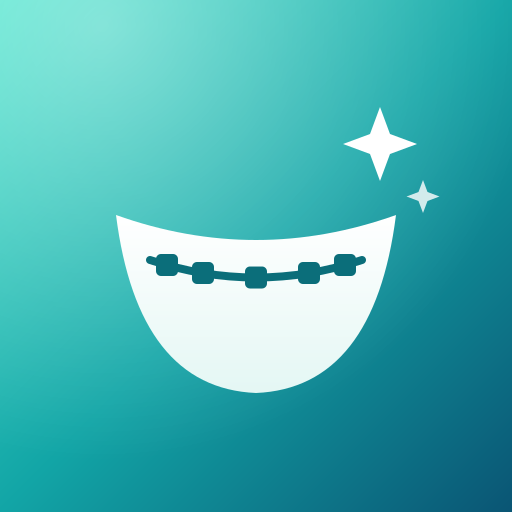
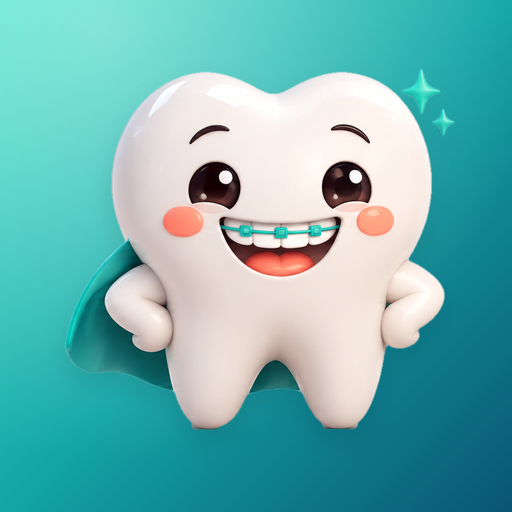
Mascotte : écran d'accueil, bulle de conseils contextuels, états vides et nouvelle icône
Claude-Session: https://claude.ai/code/session_014Qi6w99vzBnk3FX1KC666S

diff --git a/app.js b/app.js
@@ -169,7 +169,7 @@ const initial = p => (p?.name || '?').trim().charAt(0).toUpperCase();
 const opts = (list, sel) => list.map(([v, l]) => `<option value="${v}"${String(v) === String(sel) ? ' selected' : ''}>${esc(l)}</option>`).join('');
 const hm = ms => { const d = new Date(ms); return `${pad(d.getHours())}:${pad(d.getMinutes())}`; };
 const hmFr = ms => hm(ms).replace(':', ' h ');
-const dur = ms => { const m = Math.max(0, Math.round(ms / 6e4)), h = Math.floor(m / 60); return h ? `${h} h ${pad(m % 60)}` : `${m} min`; };
+const dur = ms => { const m = Math.max(0, Math.round(ms / 6e4)), h = Math.floor(m / 60); return h ? (m % 60 ? `${h} h ${pad(m % 60)}` : `${h} h`) : `${m} min`; };
 const hours1 = ms => (ms / HOUR).toFixed(1).replace('.', ',').replace(',0', '');
 const num = v => Number(String(v ?? '').replace(',', '.')) || 0;
 const telHref = s => 'tel:' + String(s || '').replace(/[^\d+]/g, '');
@@ -1156,6 +1156,44 @@ function familyCard() {
 const guideStrip = p => `<div class="sh"><h2>Fiches pratiques</h2><button data-tab="guide">Tout voir</button></div>
   <div class="gcards">${GUIDE.filter(g => relevant(g, p)).slice(0, 6).map(g => `<button class="gcard" data-art="${g.id}" style="background:linear-gradient(150deg,${g.c},color-mix(in srgb,${g.c} 70%,#000))"><span class="gi">${ic(g.ic, 18)}</span><b>${esc(g.t)}</b></button>`).join('')}</div>`;
 
+// ---------- La mascotte : un message utile selon la situation, sinon un conseil du jour ----------
+const TIPS = [
+  { t: 'Garde un petit kit sur toi : brosse à dents, cire et boîtier.', for: 'all' },
+  { t: 'Prends tes photos au même endroit, avec la même lumière : la comparaison sera bien plus parlante.', for: 'all' },
+  { t: 'Une question te vient ? Note-la tout de suite pour ne pas l’oublier au rendez-vous.', for: 'all', a: 'add-question', l: 'Ajouter une question' },
+  { t: 'Une gêne après un réglage est fréquente : aliments mous et cire aident souvent.', for: 'all', art: 'douleur' },
+  { t: 'Les rappels ajoutés au Calendrier sonnent même quand l’appli est fermée.', for: 'all', a: 'calendar', l: 'Créer mes rappels' },
+  { t: 'Brosse au-dessus et en dessous de chaque bracket, en inclinant la brosse.', for: ['bagues', 'lingual'], art: 'hyg-bagues' },
+  { t: 'Coupe les aliments durs en petits morceaux plutôt que de croquer dedans.', for: ['bagues', 'lingual'], art: 'manger' },
+  { t: 'Quand tu portes tes aligneurs, ne bois que de l’eau.', for: ['aligneurs'], art: 'aligneurs' },
+  { t: 'Évite l’eau chaude pour nettoyer tes gouttières : elle peut les déformer.', for: ['aligneurs', 'contention'], art: 'hyg-aligneurs' },
+  { t: 'Brosse-toi les dents avant de remettre tes aligneurs.', for: ['aligneurs'], art: 'hyg-aligneurs' },
+  { t: 'La contention, c’est ce qui garde ton beau résultat. Elle se porte souvent sur le long terme.', for: ['contention'], art: 'contention' },
+];
+function mascotSays(p) {
+  const o = openWear(), al = aligner(p), pr = progress(p), photos = myPhotos(), last = photos.at(-1);
+  if (o && Date.now() - o.out > 2 * HOUR) return { t: `Tes aligneurs sont hors de la bouche depuis ${dur(Date.now() - o.out)}. On les remet ?`, a: 'wear', l: 'Je les remets' };
+  if (al?.changedToday && last?.date !== iso()) return { b: `Nouvel aligneur n° ${al.n} !`, t: 'Une photo aujourd’hui pour garder la trace de chaque étape ?', a: 'camera', l: 'Prendre la photo' };
+  if (pr?.milestone && pr.milestone < 100) return { b: pr.milestone === 50 ? 'Mi-parcours franchi !' : `Cap des ${pr.milestone} % franchi !`, t: 'Regarde le chemin parcouru depuis ta première photo.', a: 'see-progress', l: 'Voir l’avant / après' };
+  const r = mine('rdv').filter(x => !x.done && x.date >= iso() && daysBetween(iso(), x.date) <= 1).sort((a, b) => (a.date + a.time).localeCompare(b.date + b.time))[0];
+  if (r) return { b: `Rendez-vous ${rel(r.date)}${r.time ? ` à ${r.time.replace(':', ' h ')}` : ''}.`, t: 'Tes questions sont prêtes ? Le mode présentation est dans l’onglet Cabinet.', a: 'go-suivi', l: 'Voir mes questions' };
+  const left = elasticsLeft(p);
+  if (left !== null && left < 7) return { t: `Plus que ${plural(left, 'jour')} d’élastiques. Pense à en redemander à ton cabinet.`, a: 'stock', l: 'Mettre à jour le stock' };
+  if (!photos.length) return { b: 'Salut, moi c’est ta mascotte !', t: 'Commence par une photo de départ : c’est elle qui montrera tout le chemin parcouru.', a: 'camera', l: 'Prendre ma première photo' };
+  const since = daysBetween(last.date, iso());
+  if (since >= 14) return { t: `Ça fait ${since} jours sans photo. On en refait une, au même endroit que la dernière ?`, a: 'camera', l: 'Prendre une photo' };
+  const items = routine(p), today = dayGet(iso(), p.id);
+  if (items.length && items.every(([k]) => today[k])) return { b: 'Routine du jour bouclée !', t: 'Tes dents te disent merci.' };
+  const tips = TIPS.filter(x => x.for === 'all' || x.for.includes(p.type));
+  const tip = tips[Math.floor(Date.now() / DAY) % tips.length];
+  return { b: 'Conseil du jour', t: tip.t, a: tip.a || (tip.art ? `art:${tip.art}` : null), l: tip.l || (tip.art ? 'Lire la fiche' : null) };
+}
+function mascotBubble(p) {
+  const m = mascotSays(p);
+  const btn = m.a ? (m.a.startsWith('art:') ? `<button data-art="${m.a.slice(4)}">${esc(m.l)}${ic('chevR', 14)}</button>` : `<button data-action="${m.a}">${esc(m.l)}${ic('chevR', 14)}</button>`) : '';
+  return `<div class="mbub"><img class="masc" src="mascot.webp" alt=""><div class="bub">${m.b ? `<b>${esc(m.b)}</b>` : ''}${esc(m.t)}${btn ? `<br>${btn}` : ''}</div></div>`;
+}
+
 // ---------- Écrans ----------
 function vWelcome() {
   const feats = [
@@ -1164,7 +1202,7 @@ function vWelcome() {
     ['alert', 'J’ai un problème', 'Les bons gestes en attendant, et ton cabinet à appeler ou à prévenir en un tap, même hors connexion.'],
     ['lock', 'Privé', 'Tout reste sur ton iPhone. Pas de compte, pas de serveur, plusieurs profils pour la famille.'],
   ];
-  return `<div class="welcome"><div class="w-top"><img class="w-icon" src="icon-512.png" alt=""><h1>Bienvenue dans<br><span>Sourire</span></h1></div>
+  return `<div class="welcome"><div class="w-top"><img class="masc w-masc" src="mascot.webp" alt="La mascotte de Sourire, une dent souriante avec des bagues"><h1>Bienvenue dans<br><span>Sourire</span></h1></div>
     <div class="w-list">${feats.map(([i, t, d]) => `<div class="w-f"><span class="w-ic">${ic(i, 30)}</span><div><b>${t}</b><p>${d}</p></div></div>`).join('')}</div>
     <div class="w-cta"><button class="btn" data-action="new-profile">Continuer</button><button class="lnk" data-action="import">Restaurer une sauvegarde</button></div></div>`;
 }
@@ -1197,6 +1235,7 @@ function vHome() {
   }
   const photoSub = since === null ? 'Ta photo de départ' : since === 0 ? 'Déjà faite aujourd’hui' : `Dernière il y a ${plural(since, 'jour')}`;
   return `<div class="lt"><div class="eyebrow">${esc(today)}</div><h1>Bonjour ${esc(p.name)}</h1></div>
+    ${mascotBubble(p)}
     <div class="stack">
       ${isAlign(p) ? wearCard() : ''}${hasNights(p) ? nightsCard(p) : ''}
       ${pctx ? painCard(pctx) : ''}
@@ -1218,7 +1257,7 @@ function vHome() {
 }
 function vGallery() {
   const all = myPhotos();
-  if (!all.length) return `<div class="empty"><div class="eic">${ic('camera', 40)}</div><h2>Aucune photo</h2>
+  if (!all.length) return `<div class="empty"><img class="masc" src="mascot-34.webp" alt=""><h2>Aucune photo</h2>
     <p>Prends une première photo de départ : de face, de côté ou des arcades. C’est elle qui rendra l’évolution visible.</p>
     <button class="btn" data-action="camera">${ic('camera', 20)}Appareil photo guidé</button><button class="btn soft" data-action="library">Choisir dans Photos</button></div>`;
   if (ui.filter !== 'all' && !all.some(p => p.view === ui.filter)) ui.filter = 'all';
@@ -1233,7 +1272,7 @@ function vGallery() {
 function vCompare() {
   const all = myPhotos();
   const byView = VIEWS.map(([v, l]) => [v, l, all.filter(p => p.view === v)]).filter(x => x[2].length >= 2);
-  if (!byView.length) return `<div class="empty"><div class="eic">${ic('compare', 40)}</div><h2>Deux photos minimum</h2>
+  if (!byView.length) return `<div class="empty"><img class="masc" src="mascot-34.webp" alt=""><h2>Deux photos minimum</h2>
     <p>Ajoute au moins deux photos de la même vue, à des dates différentes, pour voir l’avant / après.</p><button class="btn" data-action="camera">${ic('camera', 20)}Prendre une photo</button></div>`;
   if (!byView.some(x => x[0] === ui.cmpView)) { ui.cmpView = byView[0][0]; ui.cmpA = ui.cmpB = null; }
   const list = byView.find(x => x[0] === ui.cmpView)[2];
@@ -1583,6 +1622,7 @@ const ACTIONS = {
   'add-rdv': () => rdvSheet(), 'add-question': () => questionSheet(), 'add-pay': () => paySheet(),
   'wear': toggleWear, 'wear-list': wearListSheet, 'aligner': alignerSheet, 'stock': stockSheet, 'rb': rbSheet,
   'problem': problemSheet, 'calendar': calendarSheet,
+  'see-progress': () => { ui.pmode = 'compare'; ui.cmpA = ui.cmpB = null; go('photos'); }, 'go-suivi': () => go('suivi'),
   'message': () => { const p = me(), last = myPhotos().at(-1); const series = last ? myPhotos().filter(x => x.date === last.date) : []; composeMessage({ text: `${clinicSummary(p)}\n\n${mine('questions').filter(q => !q.done).map(q => `- ${q.text}`).join('\n')}\n`, photos: series.slice(0, 6), subject: `Suivi de ${p.name}` }); },
   'pdf': () => makeReport().catch(e => { console.error(e); hud('Impossible de créer le PDF', 'info'); }),
   'share-all': () => sharePhotos(myPhotos()), 'export': exportSheet, 'import': importBackup,

diff --git a/styles.css b/styles.css
@@ -514,3 +514,15 @@ textarea.note::placeholder{color:var(--label3)}
 .field input[type=time]{min-width:84px}
 .field input.tog{flex:none;width:51px;height:31px;min-width:51px}
 .field input[type=time]{min-width:96px}
+
+/* ---------- Mascotte ---------- */
+.masc{display:block;-webkit-user-drag:none;filter:drop-shadow(0 10px 14px rgba(0,0,0,.14))}
+.w-masc{width:min(46vw,190px);margin:0 auto;animation:pop .7s cubic-bezier(.2,1.25,.4,1) both,bob 3.4s 1s ease-in-out infinite}
+@keyframes bob{50%{transform:translateY(-7px)}}
+.mbub{display:flex;align-items:flex-end;gap:8px;margin:0 0 14px}
+.mbub .masc{width:66px;flex:none;margin-bottom:-2px;animation:bob 3.4s ease-in-out infinite}
+.mbub .bub{position:relative;flex:1;min-width:0;background:var(--bg2);border-radius:20px 20px 20px 6px;padding:12px 14px;font-size:15px;line-height:1.36;letter-spacing:-.24px;animation:rise .5s .1s var(--spring) both}
+.mbub .bub b{display:block;font-weight:600}
+.mbub .bub button{display:inline-flex;align-items:center;gap:4px;margin-top:6px;color:var(--tint);font-size:15px;font-weight:600}
+.empty .masc{width:132px;margin:0 auto 14px;animation:bob 3.4s ease-in-out infinite}
+.ready .masc{width:92px;margin:4px auto 8px}

diff --git a/index.html b/index.html
@@ -13,9 +13,10 @@
 <meta name="apple-mobile-web-app-status-bar-style" content="black-translucent">
 <meta name="format-detection" content="telephone=no">
 <link rel="manifest" href="manifest.webmanifest">
-<link rel="icon" href="icon.svg" type="image/svg+xml">
+<link rel="icon" href="icon-192.png" type="image/png">
 <link rel="apple-touch-icon" href="icon-180.png">
-<link rel="stylesheet" href="styles.css?v=3">
+<link rel="preload" href="mascot.webp" as="image" type="image/webp">
+<link rel="stylesheet" href="styles.css?v=4">
 </head>
 <body>
 <header id="bar" class="bar"></header>
@@ -25,6 +26,6 @@
 <div id="camera" hidden></div>
 <div id="hud" role="status" aria-live="polite"></div>
 <label id="haptic" aria-hidden="true"><input type="checkbox" switch tabindex="-1"></label>
-<script src="app.js?v=3"></script>
+<script src="app.js?v=4"></script>
 </body>
 </html>

diff --git a/sw.js b/sw.js
@@ -1,6 +1,6 @@
 // Réseau d'abord (pour toujours avoir la dernière version), cache en secours hors ligne.
-const CACHE = 'sourire-v3';
-const SHELL = ['./', 'index.html', 'styles.css?v=3', 'app.js?v=3', 'icon-512.png', 'icon.svg', 'manifest.webmanifest'];
+const CACHE = 'sourire-v4';
+const SHELL = ['./', 'index.html', 'styles.css?v=4', 'app.js?v=4', 'icon-512.png', 'mascot.webp', 'mascot-34.webp', 'manifest.webmanifest'];
 self.addEventListener('install', e => { e.waitUntil(caches.open(CACHE).then(c => c.addAll(SHELL))); self.skipWaiting(); });
 self.addEventListener('activate', e => {
   e.waitUntil(caches.keys().then(ks => Promise.all(ks.filter(k => k !== CACHE).map(k => caches.delete(k)))).then(() => self.clients.claim()));
